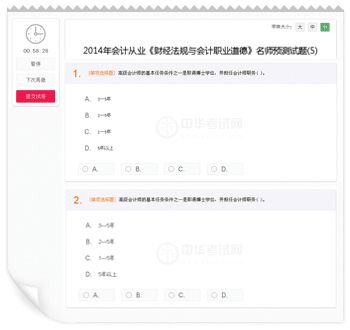
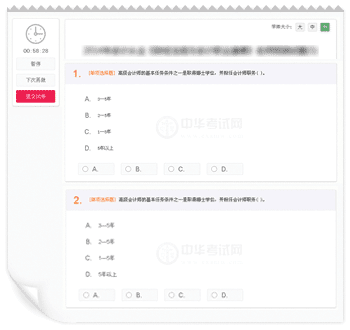
增加title

Changed region(s): [[0.2286, 0.1212, 0.9143, 0.1818], [0.0286, 0.2727, 0.1429, 0.303], [0.2, 0.2121, 0.2286, 0.2424]]

diff --git a/src/main/webapp/WEB-INF/ftl/paper_info.html b/src/main/webapp/WEB-INF/ftl/paper_info.html
@@ -2,7 +2,7 @@
 <html>
 <head>
 <meta charset="gb2312">
-<title>题型介绍 考试系统题库</title>
+<title>题型介绍 考试系统题库 - ${PAPER.name}</title>
 <#include "common/loadPageJS.ftl" />
 </head>
 <body>
@@ -29,12 +29,13 @@
                   			-->
                   			</li>
                             <li>年份：${PAPER.year?c} 年</li>
-                            <li>类型：${PAPER.typeName}试卷</li>
-                            <li>合格分数：${PAPER.score*0.6} 分</li>
+                            <li>类型：${PAPER.typeName}</li>
                             <li>总分: ${PAPER.score} 分</li>
-                            <li>阅卷收费：自动阅卷</li>
                             <li>作答：${PAPER.time} 分钟</li>
-                            <li>来源：${PAPER.sourceName?default("网络")}</li>
+                            <#if PAPER.sourceName?? || PAPER.sourceName!="">
+                            <li>来源：${PAPER.sourceName}</li>
+                            <li></li>
+                            </#if>
                             <!-- <li>参与人数：0人</li> -->
                   		</ul>
                   	</div>
@@ -53,7 +54,7 @@
                             <div class="title">
                                 <i>
                                     <div class="title"><dd>${rule.typeName}</dd></div>
-                                    <p>${rule_index+1}、${rule.title} ${rule.description}</p>
+                                    <p>${rule.title} ${rule.description}</p>
                                 </i>
                             </div>
                         </li>

diff --git a/src/main/webapp/WEB-INF/ftl/exam_center.html b/src/main/webapp/WEB-INF/ftl/exam_center.html
@@ -2,7 +2,7 @@
 <html>
 <head>
 <meta charset="gb2312">
-<title>考试系统题库</title>
+<title>考试系统题库-${PRODUCT.name}</title>
 <meta http-equiv="X-UA-Compatible" content="IE=edge"/>
 <meta http-equiv="Content-Type" content="text/html;charset=utf-8"/>
 <meta name="viewport" content="width=device-width,initial-scale=1.0"/>
@@ -33,7 +33,7 @@
                     </div>
                 </div>
                 <div class="f-r fl">
-                	<div class="botton"><div class="hei-botton"><a href="<@s.url "/products"/>?examId=${PRODUCT.examId}"</a>>返回产品中心</a></div></div>
+                	<div class="botton"><div class="hei-botton"><a href="<@s.url "/product"/>?examId=${PRODUCT.examId}"</a>>返回产品中心</a></div></div>
                 </div>
             </div>
             <div class="hbg"></div>
@@ -78,7 +78,7 @@
             <div class="tj-botton hong-botton"><a href="<@s.url "/library/chapter/list/${PRODUCT.id}"/>">快速做题</a></div>
         </div>
     </div>
-    <div class="tongji-out yinying mr-no" onMouseOver="this.className='tongji-over yinying mr-no'" onMouseOut="this.className='tongji-out yinying mr-no'" onclick='location="<@s.url "/library/daily/${PRODUCT.id}"/>"'>
+    <div class="tongji-out yinying mr-no" onMouseOver="this.className='tongji-over yinying mr-no'" onMouseOut="this.className='tongji-out yinying mr-no'" onclick='location="<@s.url "/library/daily/${PRODUCT.id}/0"/>"'>
     	<div class="tongji-content fl">
         	<div class="tj-top fl"><em class="meiri"></em></div>
             <div class="tj-name fl">每日一练</div>

diff --git a/src/main/webapp/WEB-INF/ftl/simulate.html b/src/main/webapp/WEB-INF/ftl/simulate.html
@@ -1,7 +1,7 @@
 <!doctype html>
 <html>
 <head>
-<title>模拟考场 考试系统题库</title>
+<title>模拟考场 考试系统题库  ${SESSIONPRODUCT.name}</title>
 <#include "common/loadPageJS.ftl" />
 <!-- 分页工具  -->
 <link href="<@s.url "/resources/front-default/pager.css"/>" rel="stylesheet" type="text/css">
@@ -201,7 +201,7 @@
         PageClick = function(pageclickednumber) {
             $("#pager").pager({ pagenumber: pageclickednumber, pagecount: total, buttonClickCallback: PageClick });
             //跳转
-            choose("page",pagenumber);
+            choose("page",pageclickednumber);
         }
         function choose(tag,value){
         	$("#form input[name='"+tag+"']").val(value);

diff --git a/src/main/webapp/WEB-INF/ftl/products.html b/src/main/webapp/WEB-INF/ftl/products.html
@@ -1,7 +1,7 @@
 <!doctype html>
 <html>
 <head>
-<title>分类产品列表 考试系统题库</title>
+<title>分类产品列表 考试系统题库 <#if PRODUCTLIST??&&PRODUCTLIST[0]??>${PRODUCTLIST[0].examName}</#if></title>
 <meta http-equiv="X-UA-Compatible" content="IE=edge"/>
 <meta http-equiv="Content-Type" content="text/html;charset=utf-8"/>
 <meta name="viewport" content="width=device-width,initial-scale=1.0"/>

diff --git a/src/main/webapp/WEB-INF/ftl/error_records.html b/src/main/webapp/WEB-INF/ftl/error_records.html
@@ -1,7 +1,7 @@
 <!doctype html>
 <html>
 <head>
-<title>错题记录  考试系统题库</title>
+<title>错题记录  考试系统题库 ${SESSIONPRODUCT.name}</title>
 <#include "common/loadPageJS.ftl" />
 <!-- 分页工具  -->
 <link href="<@s.url "/resources/front-default/pager.css"/>" rel="stylesheet" type="text/css">

diff --git a/src/main/webapp/WEB-INF/ftl/practice_records.html b/src/main/webapp/WEB-INF/ftl/practice_records.html
@@ -1,7 +1,7 @@
 <!doctype html>
 <html>
 <head>
-<title>练习记录 考试系统题库</title>
+<title>练习记录 考试系统题库 ${SESSIONPRODUCT.name}</title>
 <#include "common/loadPageJS.ftl" />
 <!-- 分页工具  -->
 <link href="<@s.url "/resources/front-default/pager.css"/>" rel="stylesheet" type="text/css">

diff --git a/src/main/webapp/WEB-INF/ftl/errors_detail.html b/src/main/webapp/WEB-INF/ftl/errors_detail.html
@@ -1,7 +1,7 @@
 <!doctype html>
 <html>
 <head>
-<title>错题记录  考试系统题库</title>
+<title>错题记录  考试系统题库 ${SESSIONPRODUCT.name}</title>
 <#include "common/loadPageJS.ftl" />
 <!-- dialog -->
 <link href="<@s.url "/resources/artDialog/ui-dialog.css"/>" rel="stylesheet" type="text/css">

diff --git a/src/main/webapp/WEB-INF/ftl/multi_mode.html b/src/main/webapp/WEB-INF/ftl/multi_mode.html
@@ -1,7 +1,7 @@
 <!doctype html>
 <html>
 <head>
-<title>模拟考场 考试系统题库</title>
+<title>模拟考场 考试系统题库 - ${PAPER.name}</title>
 <#include "common/loadPageJS.ftl" />
 <!-- dialog -->
 <link href="<@s.url "/resources/artDialog/ui-dialog.css"/>" rel="stylesheet" type="text/css">

diff --git a/src/main/webapp/WEB-INF/ftl/multi_mode_showanswer.html b/src/main/webapp/WEB-INF/ftl/multi_mode_showanswer.html
@@ -1,7 +1,7 @@
 <!doctype html>
 <html>
 <head>
-<title>模拟考场 考试系统题库</title>
+<title>模拟考场 考试系统题库 - ${PAPER.name}</title>
 <#include "common/loadPageJS.ftl" />
 <!-- dialog -->
 <link href="<@s.url "/resources/artDialog/ui-dialog.css"/>" rel="stylesheet" type="text/css">

diff --git a/src/main/webapp/WEB-INF/ftl/single_mode.html b/src/main/webapp/WEB-INF/ftl/single_mode.html
@@ -1,7 +1,7 @@
 <!doctype html>
 <html>
 <head>
-<title>模拟考场 考试系统题库</title>
+<title>模拟考场 考试系统题库- ${PAPER.name}</title>
 <#include "common/loadPageJS.ftl" />
 <!-- dialog -->
 <link href="<@s.url "/resources/artDialog/ui-dialog.css"/>" rel="stylesheet" type="text/css">

diff --git a/src/main/webapp/WEB-INF/ftl/daily_practice.html b/src/main/webapp/WEB-INF/ftl/daily_practice.html
@@ -1,7 +1,7 @@
 <!doctype html>
 <html>
 <head>
-<title>每日一练  考试系统题库</title>
+<title>每日一练  考试系统题库 ${SESSIONPRODUCT.name}</title>
 <#include "common/loadPageJS.ftl" />
 <style type="text/css">
 .week_today{

diff --git a/src/main/webapp/WEB-INF/ftl/chapter_knowledge.html b/src/main/webapp/WEB-INF/ftl/chapter_knowledge.html
@@ -1,7 +1,7 @@
 <!doctype html>
 <html>
 <head>
-<title>章节知识点页面 考试系统题库</title>
+<title>章节知识点页面 考试系统题库 ${SESSIONPRODUCT.name}</title>
 <#include "common/loadPageJS.ftl" />
 </head>
 
